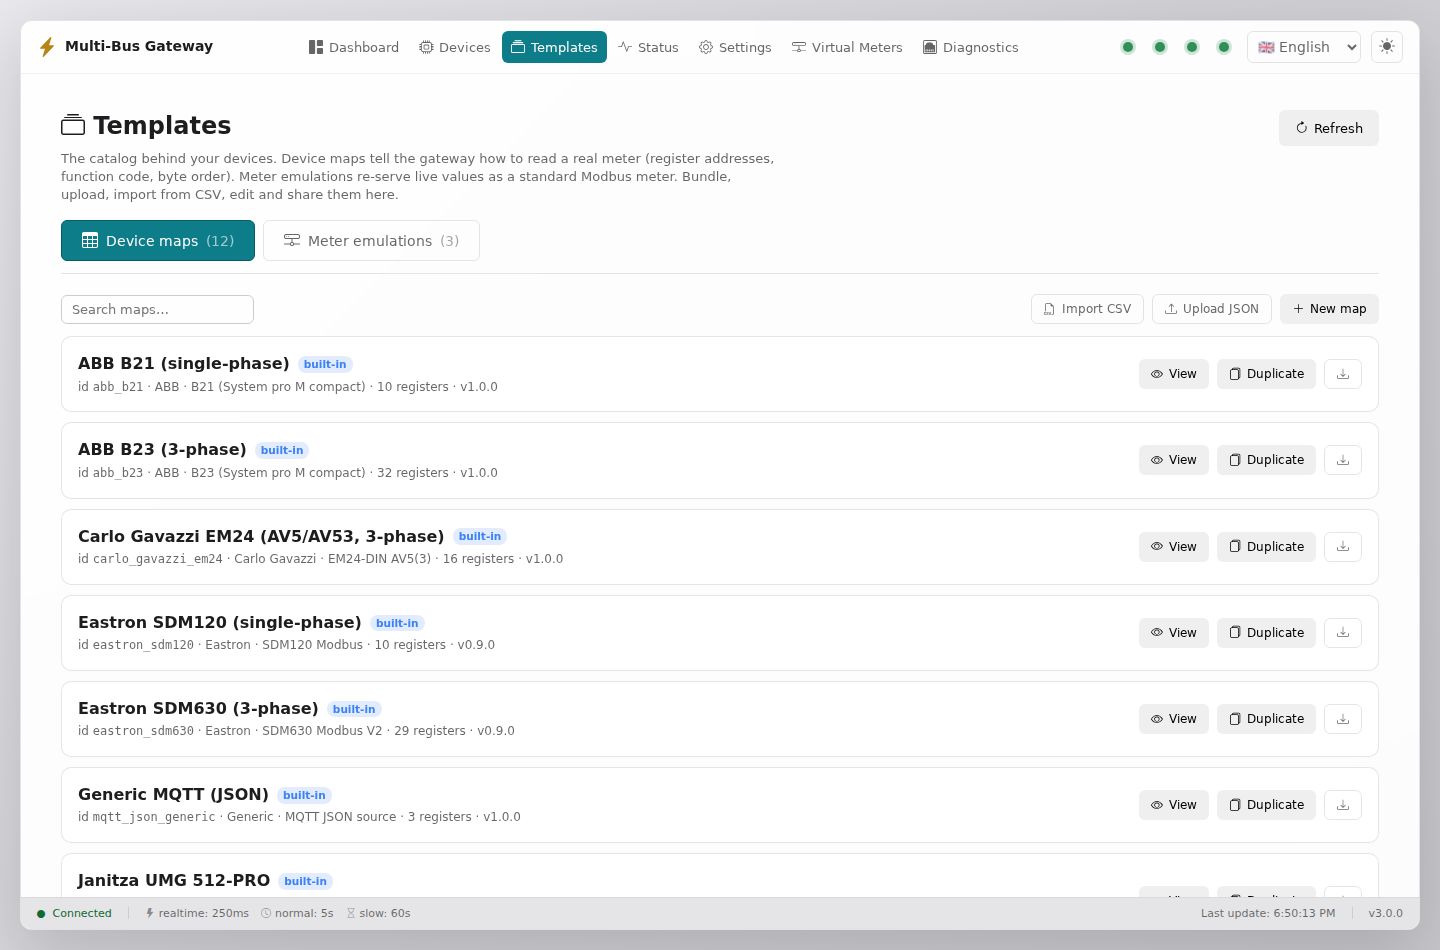
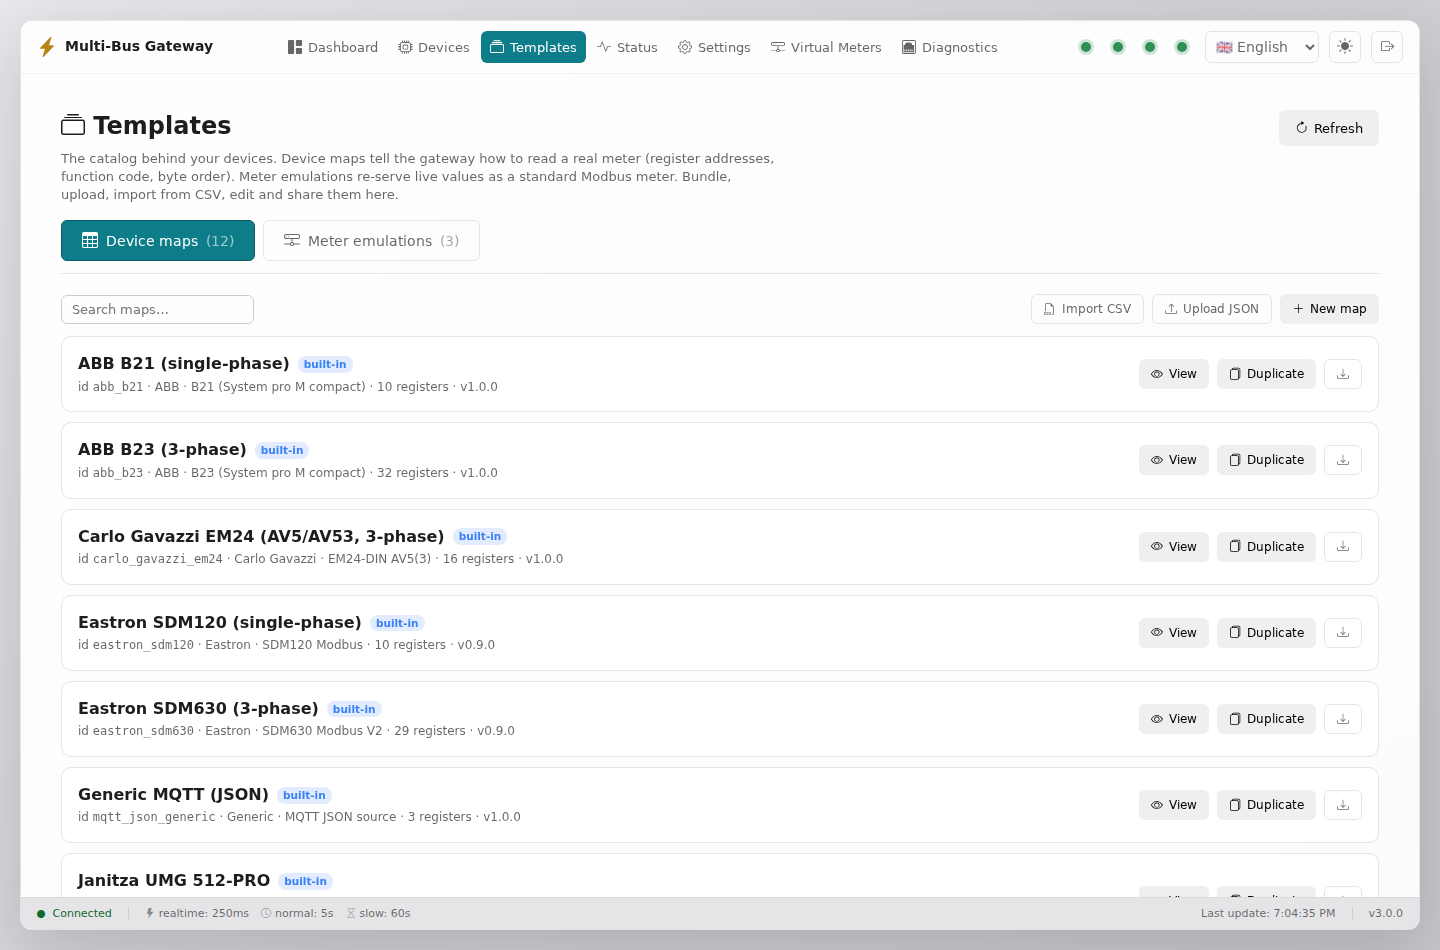
docs(guide): regenerate UI walkthrough screenshots from production
Capture all 18 GHID-UI shots from the live production instance
(mbus.diysolar.ro) with real data — Janitza UMG 512-PRO + Fronius
Meter, and the two served virtual meters (Victron / Fronius
DataManager) with live client connections — instead of the ephemeral
auth-off demo. Note the audit shot is the operator's role-gated view
(admin-only content) and record the production capture path.

Changed region(s): [[0.1875, 0.0305, 0.6875, 0.0611], [0.75, 0.0305, 0.9688, 0.0611]]

diff --git a/docs/GHID-UI.md b/docs/GHID-UI.md
@@ -1,11 +1,13 @@
 # Ghid vizual al interfeței — Multi-Bus Gateway
 
 Un tur ilustrat al fiecărei pagini, sub-pagini și tab din interfața web, cu note
-explicative pentru operator/integrator. Capturile sunt făcute pe o instanță cu
-date reale (un Janitza UMG 512-PRO + un Fronius Smart Meter). Bara de sus e
-identică peste tot: navigarea între pagini, indicatorii de stare (dispozitive /
-MQTT / InfluxDB / vmeter — verde = ok), selectorul de limbă și comutatorul de
-temă (clar/întunecat).
+explicative pentru operator/integrator. Capturile sunt făcute pe **instanța de
+producție** (mbus.diysolar.ro), cu date reale: un **Janitza UMG 512-PRO** (Modbus
+TCP, 60 măsurători) și un **Fronius Meter** (Solar API / HTTP, 16 măsurători),
+plus două metere virtuale servite mai departe către Victron și Fronius
+DataManager. Bara de sus e identică peste tot: navigarea între pagini,
+indicatorii de stare (dispozitive / MQTT / InfluxDB / vmeter — verde = ok),
+selectorul de limbă și comutatorul de temă (clar/întunecat).
 
 ---
 
@@ -185,10 +187,13 @@ E panoul de la care pornești securitatea când cutia iese din LAN-ul de încred
 
 ![Audit Trail](img/guide/15-settings-security-audit.png)
 
-**Jurnalul de audit** (partea de jos a paginii de securitate, doar admin): cine a
-schimbat ce, când, de la ce IP — cu payload-ul redactat. Filtrabil, exportabil
-CSV. Include login-uri (ok/greșit/lockout), scrieri pe dispozitive, exporturi de
+**Jurnalul de audit** (partea de jos a paginii de securitate): cine a schimbat
+ce, când, de la ce IP — cu payload-ul redactat. Filtrabil, exportabil CSV.
+Include login-uri (ok/greșit/lockout), scrieri pe dispozitive, exporturi de
 secrete. Fiecare refuz (403) apare pe numele contului care l-a încercat.
+**Doar rolul admin** poate citi conținutul: captura de aici e vederea unui
+*operator*, unde tabelul afișează „The audit trail requires the admin role" —
+adică exact gate-ul de rol în acțiune.
 
 ---
 
@@ -234,5 +239,7 @@ topicul din ce publică brokerul, nu-l tastezi orb). Pasul 2 alege template-ul
 - **Limbă**: EN + RO incluse; se adaugă altele copiind un fișier din
   `ui/languages/`.
 
-*Capturi generate pe versiunea 3.0.0. Când UI-ul se schimbă vizibil,
-re-generează-le rulând instanța de manual (auth off) și scriptul de captură.*
+*Capturi generate pe versiunea 3.0.0, din producție (mbus.diysolar.ro). Când
+UI-ul se schimbă vizibil, re-generează-le fie logat pe producție (script
+Playwright cu login), fie pe o instanță efemeră cu auth off — și rulează scriptul
+de captură.*
